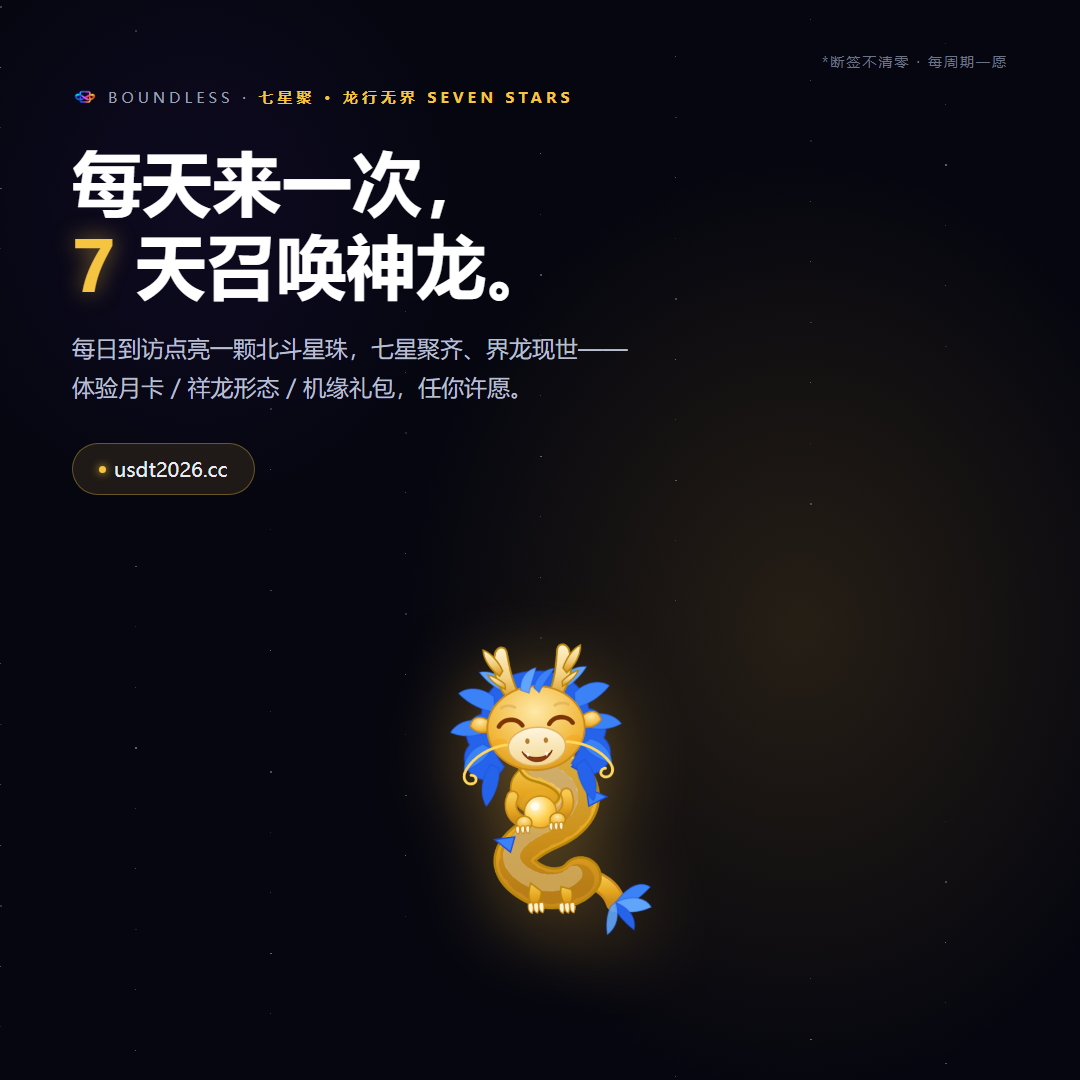
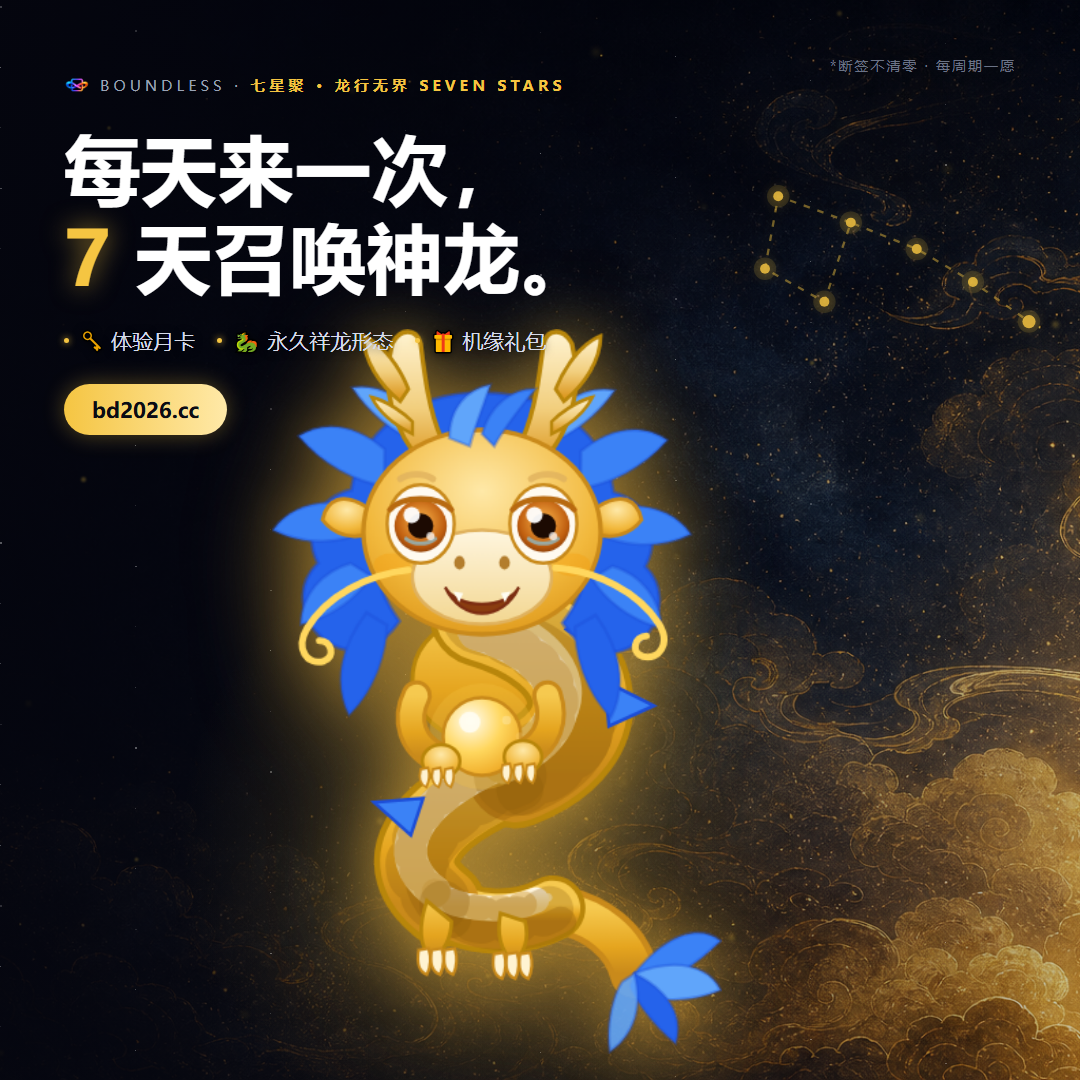
feat(assets+test): teaser pipeline v2 + dragon dock regression + test clock gate
- robot-teaser v2: live-capture hero from /robot-stage, summoning-scene composition,
  env copy matrix; regenerated loong teasers + egg variants with night backdrop
- dragon dock regression suites (chat mutex / pearl stow / mini-bar collect) and
  DRAGON_TEST_CLOCK=1 explicit gate for the time-simulation backdoor
- prodsmoke default domain -> bd2026.cc

diff --git a/website/app/api/dragon/route.ts b/website/app/api/dragon/route.ts
@@ -30,9 +30,10 @@ const COOKIE = "bl_vid";
 /** Chrome 对 cookie 寿命的上限约 400 天 */
 const COOKIE_MAX_AGE = 399 * 86400;
 
-/** 仅非生产环境：x-dragon-now 头模拟"现在"，供七日流程自动化回归（生产无此后门） */
+/** 时间模拟后门（x-dragon-now 头）：dev 默认开；生产构建需显式 DRAGON_TEST_CLOCK=1
+ *  （本地可用 next start 跑全量回归——比 dev server 稳定；线上不设该变量即无后门） */
 function nowOf(req: NextRequest): number {
-  if (process.env.NODE_ENV !== "production") {
+  if (process.env.NODE_ENV !== "production" || process.env.DRAGON_TEST_CLOCK === "1") {
     const h = Number(req.headers.get("x-dragon-now"));
     if (Number.isFinite(h) && h > 0) return h;
   }